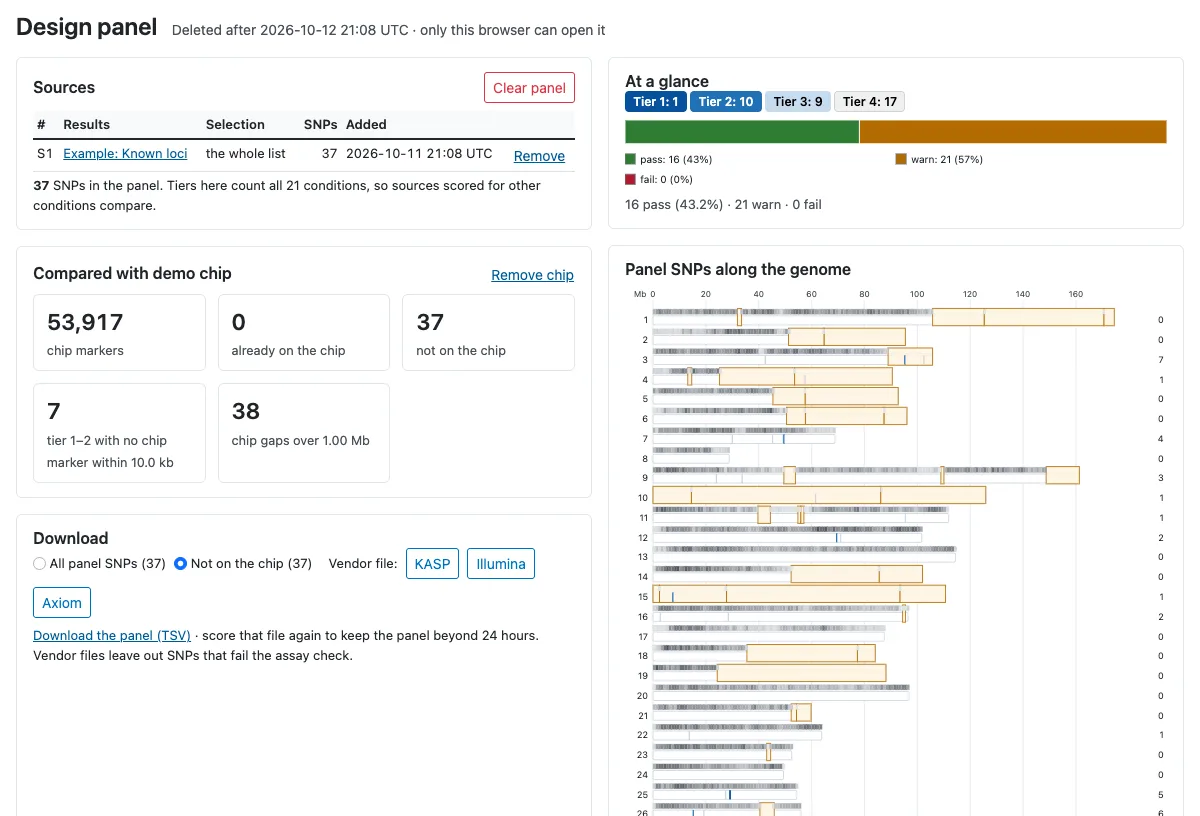
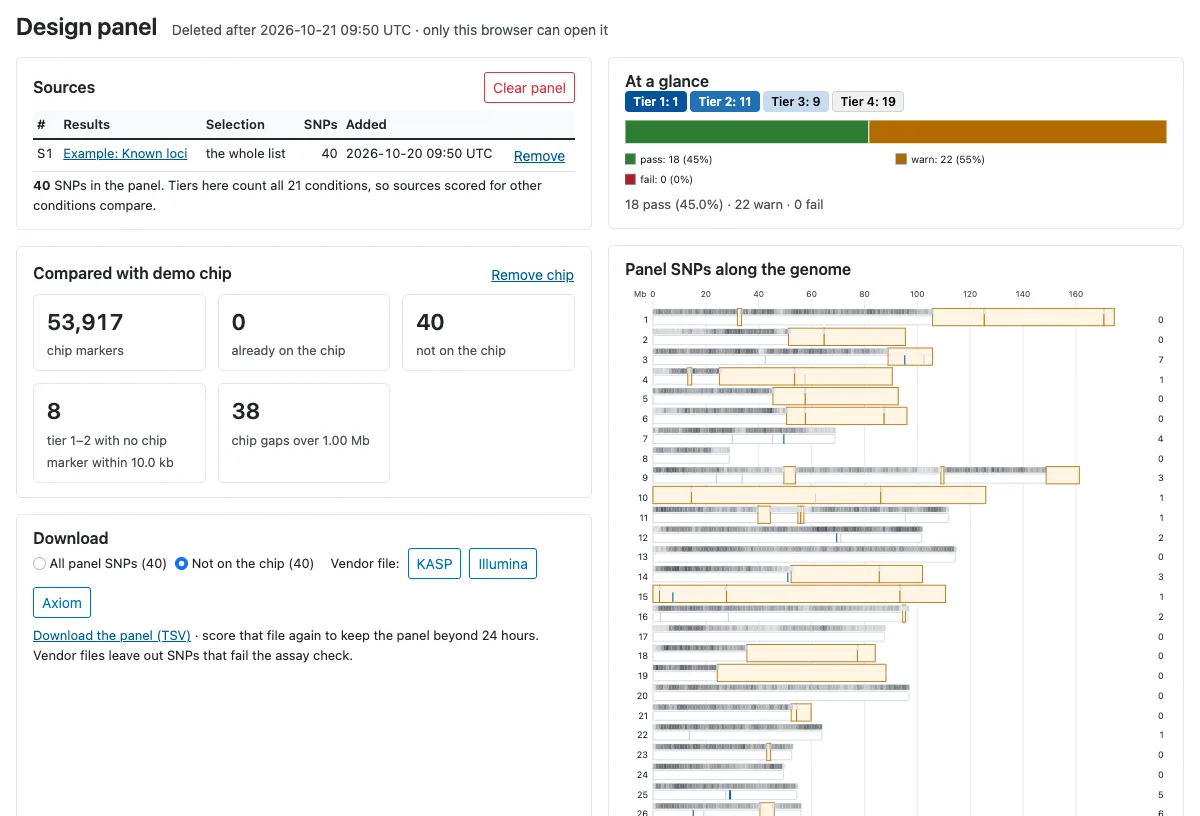
Tour: screenshots retaken on release 2026-10-20 (public SNPs, TF motifs, 40 known loci)

diff --git a/snpportal/snpportal/static/snpportal/tour/tour.css b/snpportal/snpportal/static/snpportal/tour/tour.css
@@ -13,17 +13,17 @@
 #tour-table-1 { left: 78.51%; top: 21.87%; width: 21.49%; height: 76.83%; }
 #tour-table-2 { left: 0.75%; top: 16.94%; width: 3.22%; height: 36.59%; }
 #tour-table-3 { left: 15.24%; top: 22.96%; width: 11.16%; height: 4.22%; }
-#tour-table-4 { left: 79.34%; top: 10.46%; width: 11.55%; height: 6.32%; }
+#tour-table-4 { left: 79.25%; top: 10.46%; width: 11.64%; height: 6.32%; }
 #tour-card img { aspect-ratio: 1200 / 667; }
 #tour-card-1 { left: 48.48%; top: 8.50%; width: 45.63%; height: 9.76%; }
 #tour-card-2 { left: 80.82%; top: 24.47%; width: 15.38%; height: 5.06%; }
 #tour-card-3 { left: 54.07%; top: 63.94%; width: 27.55%; height: 25.90%; }
 #tour-card-4 { left: 42.68%; top: 91.32%; width: 56.01%; height: 7.23%; }
-#tour-locus img { aspect-ratio: 1200 / 538; }
-#tour-locus-1 { left: 26.14%; top: 2.10%; width: 4.74%; height: 6.83%; }
-#tour-locus-2 { left: 0.63%; top: 25.09%; width: 98.74%; height: 29.44%; }
-#tour-locus-3 { left: 86.47%; top: 68.20%; width: 8.65%; height: 5.26%; }
-#tour-locus-4 { left: 0.63%; top: 92.29%; width: 94.97%; height: 6.31%; }
+#tour-locus img { aspect-ratio: 1200 / 651; }
+#tour-locus-1 { left: 26.14%; top: 1.74%; width: 4.74%; height: 5.65%; }
+#tour-locus-2 { left: 0.63%; top: 20.76%; width: 98.74%; height: 20.29%; }
+#tour-locus-3 { left: 86.47%; top: 73.69%; width: 8.65%; height: 4.35%; }
+#tour-locus-4 { left: 0.63%; top: 93.62%; width: 94.97%; height: 5.22%; }
 #tour-panel img { aspect-ratio: 1200 / 816; }
 #tour-panel-1 { left: 2.42%; top: 13.09%; width: 45.83%; height: 8.52%; }
 #tour-panel-2 { left: 2.42%; top: 35.52%; width: 45.83%; height: 24.15%; }
@@ -34,6 +34,6 @@
 #tour-gwas-2 { left: 2.04%; top: 82.59%; width: 24.25%; height: 16.37%; }
 #tour-gwas-3 { left: 41.59%; top: 82.59%; width: 32.03%; height: 16.37%; }
 #tour-more img { aspect-ratio: 1200 / 649; }
-#tour-more-1 { left: 34.02%; top: 0.00%; width: 9.31%; height: 7.45%; }
-#tour-more-2 { left: 42.59%; top: 0.00%; width: 11.22%; height: 7.45%; }
-#tour-more-3 { left: 43.85%; top: 6.10%; width: 15.33%; height: 41.03%; }
+#tour-more-1 { left: 34.12%; top: 0.00%; width: 9.31%; height: 7.45%; }
+#tour-more-2 { left: 42.69%; top: 0.00%; width: 11.22%; height: 7.45%; }
+#tour-more-3 { left: 43.95%; top: 6.10%; width: 15.33%; height: 41.03%; }
